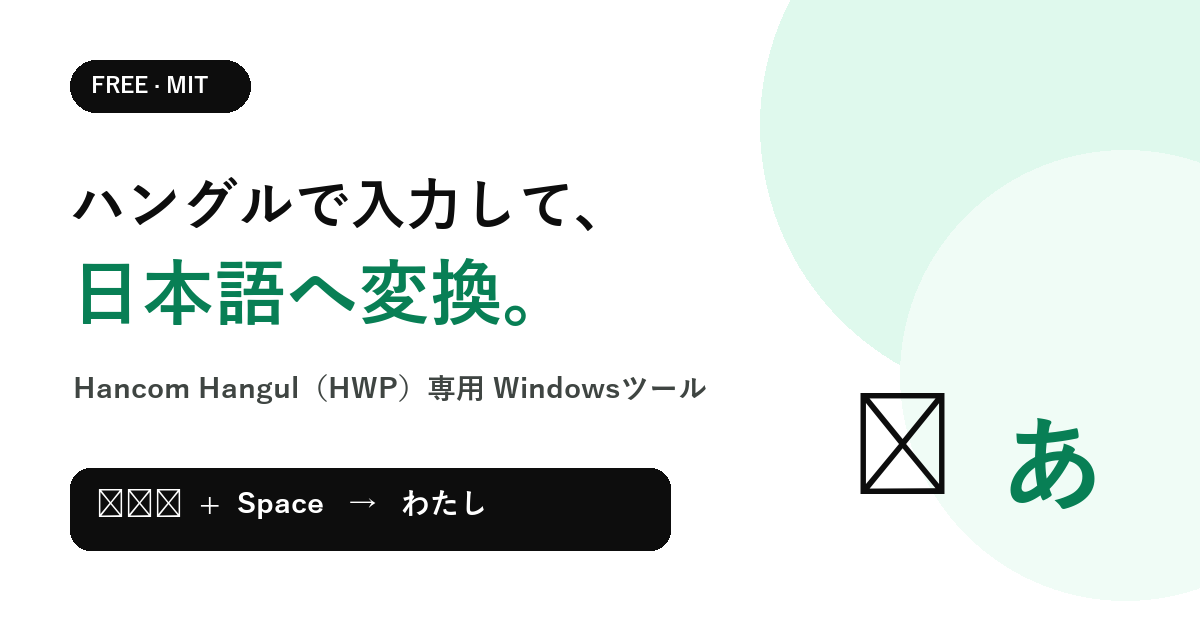
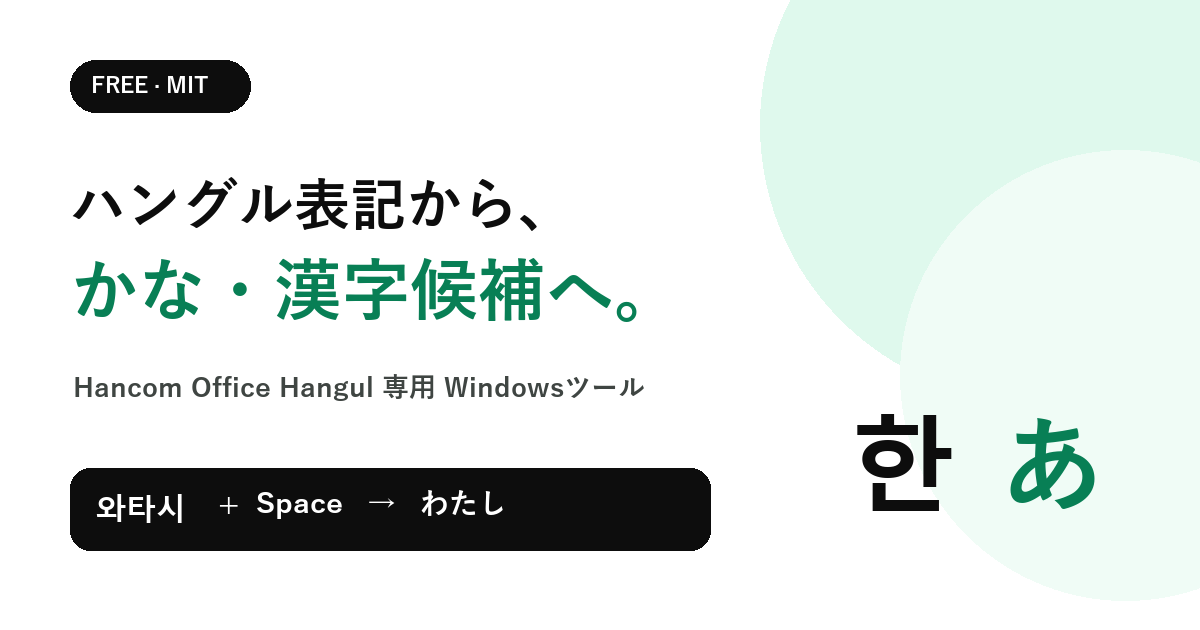
改善: 公開ページの正確性と安全案内を強化

diff --git a/docs/index.html b/docs/index.html
@@ -4,7 +4,7 @@
   <meta charset="utf-8">
   <meta name="viewport" content="width=device-width,initial-scale=1">
   <title>ハングル発音 → 日本語入力ツール｜HWPでひらがな・カタカナ・漢字変換</title>
-  <meta name="description" content="韓国語キーボードで日本語の発音をハングル入力し、Hancom Hangul（HWP）上でひらがな・カタカナ・漢字へ変換する無料Windowsソフト。オフライン動作・MITライセンス。">
+  <meta name="description" content="韓国語キーボードでハングル表記の日本語読みを入力し、Hancom Office Hangul上でかな・登録済み漢字候補へ変換する無料Windowsソフト。オフライン動作・MITライセンス。">
   <meta name="keywords" content="ハングルで日本語入力,韓国語キーボード,日本語変換,HWP,日本語入力,ハングル発音,ひらがな変換,カタカナ変換,無料ソフト">
   <meta name="author" content="kimisjun">
   <meta name="robots" content="index,follow,max-image-preview:large">
@@ -14,10 +14,14 @@
   <meta property="og:type" content="website">
   <meta property="og:locale" content="ja_JP">
   <meta property="og:title" content="ハングル発音 → 日本語入力ツール">
-  <meta property="og:description" content="ハングルで入力した日本語の発音を、HWP上でかな・漢字に変換。無料・オープンソース。">
+  <meta property="og:description" content="ハングル表記の日本語読みを、Hancom Office Hangul上でかな・登録済み漢字候補へ変換。無料・オープンソース。">
   <meta property="og:url" content="https://kimisjun.github.io/hangul-japanese-input/">
   <meta property="og:image" content="https://kimisjun.github.io/hangul-japanese-input/assets/og-image.png">
+  <meta property="og:image:alt" content="ハングル表記の日本語読みをかなへ変換するWindowsツール">
   <meta name="twitter:card" content="summary_large_image">
+  <meta name="twitter:title" content="ハングル表記 → 日本語かな・漢字候補入力ツール">
+  <meta name="twitter:description" content="Hancom Office Hangul専用の無料Windows入力補助ツール">
+  <meta name="twitter:image:alt" content="ハングル表記の日本語読みをかなへ変換するWindowsツール">
   <meta name="theme-color" content="#0fa76e">
   <script type="application/ld+json">
   {
@@ -29,9 +33,11 @@
     "operatingSystem":"Windows 64-bit",
     "softwareVersion":"1.0.0",
     "inLanguage":"ja",
-    "description":"日本語の発音をハングルで入力し、Hancom Hangul（HWP）上でひらがな・カタカナ・漢字へ変換する無料ツール。",
+    "description":"ハングル表記の日本語読みを入力し、Hancom Office Hangul上でかな・登録済み漢字候補へ変換する無料ツール。",
     "url":"https://kimisjun.github.io/hangul-japanese-input/",
-    "downloadUrl":"https://github.com/kimisjun/hangul-japanese-input/releases/latest",
+    "downloadUrl":"https://github.com/kimisjun/hangul-japanese-input/releases/download/v1.0.0/HangulJapaneseInput-v1.0.0-win-x64.zip",
+    "image":"https://kimisjun.github.io/hangul-japanese-input/assets/og-image.png",
+    "screenshot":"https://kimisjun.github.io/hangul-japanese-input/assets/app-preview.png",
     "license":"https://opensource.org/license/mit",
     "isAccessibleForFree":true,
     "offers":{"@type":"Offer","price":"0","priceCurrency":"JPY"},
@@ -60,10 +66,10 @@
       <div class="container hero-grid">
         <div class="hero-copy">
           <p class="eyebrow"><span></span> FREE · OPEN SOURCE · WINDOWS</p>
-          <h1>ハングルで入力して、<br><em>日本語へ変換。</em></h1>
-          <p class="lead">日本語の発音を韓国語キーボードで入力し、Hancom Hangul（HWP）上でひらがな・カタカナ・漢字にすばやく変換できる無料ツールです。</p>
+          <h1>ハングル表記から、<br><em>かな・漢字候補へ。</em></h1>
+          <p class="lead">日本語の読みをハングル表記で入力し、Hancom Office Hangul（한글）上でひらがな・カタカナ・登録済み漢字候補へ変換する無料ツールです。翻訳や一般的な日本語IMEではありません。</p>
           <div class="hero-actions">
-            <a class="button" href="https://github.com/kimisjun/hangul-japanese-input/releases/latest/download/HangulJapaneseInput-v1.0.0-win-x64.zip">Windows版をダウンロード</a>
+            <a class="button" href="https://github.com/kimisjun/hangul-japanese-input/releases/download/v1.0.0/HangulJapaneseInput-v1.0.0-win-x64.zip">Windows版をダウンロード</a>
             <a class="button button-ghost" href="manual/HangulJapaneseInput_UserManual_JA.pdf">日本語マニュアル（PDF）</a>
           </div>
           <ul class="trust-list" aria-label="主な特徴"><li>無料</li><li>広告なし</li><li>アカウント不要</li><li>オフライン動作</li></ul>
@@ -71,31 +77,31 @@
         <div class="product-stage">
           <div class="window-dots" aria-hidden="true"><i></i><i></i><i></i></div>
           <img src="assets/app-preview.png" alt="ハングル発音から日本語へ変換するアプリのメイン画面。와타시와をわたしはへプレビュー変換している。" width="536" height="529">
-          <div class="floating-result"><span>와타시</span><b>→</b><strong>わたし</strong></div>
+          <div class="floating-result"><span lang="ko">와타시</span><b>→</b><strong>わたし</strong></div>
         </div>
       </div>
     </section>
 
     <section class="quick-strip" aria-label="ショートカット早見表">
       <div class="container quick-grid">
-        <div><span class="kana">あ</span><p><b>ひらがな</b><small>와타시 + <kbd>Space</kbd></small></p></div>
-        <div><span class="kana">ア</span><p><b>カタカナ</b><small>테레비 + <kbd>F7</kbd></small></p></div>
-        <div><span class="kana">漢</span><p><b>漢字候補</b><small>니혼 + <kbd>Ctrl</kbd> + <kbd>Space</kbd></small></p></div>
+        <div><span class="kana">あ</span><p><b>ひらがな</b><small><span lang="ko">와타시</span> + <kbd>Space</kbd></small></p></div>
+        <div><span class="kana">ア</span><p><b>カタカナ</b><small><span lang="ko">테레비</span> + <kbd>F7</kbd></small></p></div>
+        <div><span class="kana">漢</span><p><b>漢字候補</b><small><span lang="ko">니혼</span> + <kbd>Ctrl</kbd> + <kbd>Space</kbd></small></p></div>
       </div>
     </section>
 
     <section class="section" id="features">
       <div class="container">
         <p class="eyebrow">WHY THIS TOOL</p>
-        <h2>入力の壁を、3つのキーで軽く。</h2>
-        <p class="section-lead">ローマ字入力ではなく、使い慣れたハングルの発音表記から日本語文字を入力したい方のために作られました。</p>
+        <h2>3つのキーで入力のハードルを下げる。</h2>
+        <p class="section-lead">ローマ字入力ではなく、ハングル表記から日本語の文字を入力したい方のために作られました。</p>
         <div class="card-grid">
-          <article class="card"><span class="icon">⌨</span><h3>ハングル発音入力</h3><p>「와타시」「테레비」のように、日本語の読みをハングルでそのまま入力できます。</p></article>
-          <article class="card"><span class="icon">⇄</span><h3>3種類の変換</h3><p>Spaceでひらがな、F7でカタカナ、Ctrl+Spaceで登録済みの漢字候補を表示します。</p></article>
-          <article class="card"><span class="icon">⌁</span><h3>オフラインで動作</h3><p>入力内容を外部サーバーへ送信しません。アカウント登録も広告表示もありません。</p></article>
-          <article class="card"><span class="icon">□</span><h3>HWPに特化</h3><p>Hancom Hangul（HWP）がアクティブなときだけ変換する、文書作成向けの常駐ツールです。</p></article>
-          <article class="card"><span class="icon">◎</span><h3>変換プレビュー</h3><p>HWPへ入力する前に、ひらがな・カタカナ・漢字候補をメイン画面で確認できます。</p></article>
-          <article class="card"><span class="icon">♡</span><h3>自由に利用・改良</h3><p>MITライセンスのオープンソース。個人・学校・教会・業務で無償利用できます。</p></article>
+          <article class="card"><span class="icon" aria-hidden="true">⌨</span><h3>ハングル発音入力</h3><p><span lang="ko">「와타시」「테레비」</span>のように、日本語の読みをハングル表記で入力できます。</p></article>
+          <article class="card"><span class="icon" aria-hidden="true">⇄</span><h3>3種類の変換</h3><p>Spaceでひらがな、F7でカタカナ、Ctrl+Spaceで登録済みの漢字候補を表示します。</p></article>
+          <article class="card"><span class="icon" aria-hidden="true">⌁</span><h3>オフラインで動作</h3><p>入力内容を外部サーバーへ送信しません。アカウント登録も広告表示もありません。</p></article>
+          <article class="card"><span class="icon" aria-hidden="true">□</span><h3>HWPに特化</h3><p>Hancom Office Hangulアプリがアクティブなときだけ変換する、文書作成向けの常駐ツールです。</p></article>
+          <article class="card"><span class="icon" aria-hidden="true">◎</span><h3>変換プレビュー</h3><p>HWPへ入力する前に、ひらがな・カタカナ・漢字候補をメイン画面で確認できます。</p></article>
+          <article class="card"><span class="icon" aria-hidden="true">♡</span><h3>自由に利用・改良</h3><p>MITライセンスのオープンソース。個人・学校・教会・業務で無償利用できます。</p></article>
         </div>
       </div>
     </section>
@@ -111,7 +117,7 @@
             <li><span>4</span><div><h3>ショートカットで変換</h3><p>目的に合わせてSpace、F7、Ctrl+Spaceのいずれかを押します。</p></div></li>
           </ol>
         </div>
-        <aside class="notice"><p class="notice-label">ご利用前に</p><h3>Hancom Hangul（HWP）専用です</h3><p>Microsoft Word、メモ帳、Webブラウザーでは変換しません。HWPが前面にあり、本文へ入力できる状態でご利用ください。</p><a href="manual/HangulJapaneseInput_UserManual_JA.pdf">詳しい日本語マニュアルを読む →</a></aside>
+        <aside class="notice"><p class="notice-label">ご利用前に</p><h3>Hancom Office Hangulアプリ専用です</h3><p>Microsoft Word、メモ帳、Webブラウザー、HWP互換エディターでは動作しません。Hancom Office Hangulの本文編集時だけ有効にし、検索欄やダイアログの操作時は通知領域から自動変換を一時停止してください。</p><a href="manual/HangulJapaneseInput_UserManual_JA.pdf">詳しい日本語マニュアルを読む →</a></aside>
       </div>
     </section>
 
@@ -119,12 +125,12 @@
       <div class="container">
         <p class="eyebrow">CONVERSION EXAMPLES</p><h2>変換例</h2>
         <div class="example-grid">
-          <div class="example-card"><span>와타시와</span><b>Space</b><strong>わたしは</strong></div>
-          <div class="example-card"><span>콘니치와</span><b>Space</b><strong>こんにちは</strong></div>
-          <div class="example-card"><span>아리가토우</span><b>Space</b><strong>ありがとう</strong></div>
-          <div class="example-card"><span>테레비</span><b>F7</b><strong>テレビ</strong></div>
-          <div class="example-card"><span>니혼</span><b>Ctrl + Space</b><strong>日本 · 二本</strong></div>
-          <div class="example-card"><span>교회</span><b>Ctrl + Space</b><strong>教会 · 協会</strong></div>
+          <div class="example-card"><span lang="ko">와타시와</span><b>Space</b><strong>わたしは</strong></div>
+          <div class="example-card"><span lang="ko">콘니치와</span><b>Space</b><strong>こんにちは</strong></div>
+          <div class="example-card"><span lang="ko">아리가토우</span><b>Space</b><strong>ありがとう</strong></div>
+          <div class="example-card"><span lang="ko">테레비</span><b>F7</b><strong>テレビ</strong></div>
+          <div class="example-card"><span lang="ko">니혼</span><b>Ctrl + Space</b><strong>日本 · 二本</strong></div>
+          <div class="example-card"><span lang="ko">교회</span><b>Ctrl + Space</b><strong>教会 · 協会</strong></div>
         </div>
         <p class="fine-print">※ ひらがな・カタカナは対応する発音表記から変換します。漢字候補は内蔵辞書に登録済みの語に限られます。</p>
       </div>
@@ -135,21 +141,21 @@
         <p class="eyebrow">FAQ</p><h2>よくある質問</h2>
         <details><summary>本当に無料ですか？</summary><p>はい。MITライセンスで公開しており、個人・教育・非営利・商用を問わず利用、複製、変更、再配布できます。ライセンス表示は残してください。</p></details>
         <details><summary>インターネット接続は必要ですか？</summary><p>いいえ。変換はパソコン内で行われ、アカウント登録やクラウド送信はありません。</p></details>
-        <details><summary>Wordやブラウザーでも使えますか？</summary><p>現在のバージョンはHancom Hangul（HWP）専用です。HWP以外のアプリではショートカットを横取りしません。</p></details>
+        <details><summary>Wordやブラウザーでも使えますか？</summary><p>現在のバージョンはHancom Office Hangulアプリ専用です。HWPファイルを開ける他の互換ソフトでは動作しません。</p></details>
         <details><summary>変換されない単語があります</summary><p>未登録または非対応の表記では変換されません。まずメイン画面のプレビューで確認してください。日本語IMEのような文脈解析は行いません。</p></details>
-        <details><summary>安全性とプライバシーは？</summary><p>ネットワーク通信やテレメトリーはありません。変換時には直前の語を一時的にWindowsクリップボードへコピーし、通常は処理後に元の内容へ戻します。動作確認用ログは端末内の<code>%LOCALAPPDATA%\HangulJapaneseInput\diagnostic.log</code>に保存されますが、入力した単語そのものは記録しません。</p></details>
+        <details><summary>安全性とプライバシーは？</summary><p>ネットワーク通信やテレメトリーはありません。変換時には直前の語を一時的にWindowsクリップボードへコピーし、通常は処理後に元の内容へ戻します。動作確認用ログは端末内の<code>%LOCALAPPDATA%\HangulJapaneseInput\diagnostic.log</code>に保存されますが、入力した単語そのものは記録しません。クリップボード履歴ソフトを使っている場合、一時コピーが履歴に残ることがあります。</p></details>
       </div>
     </section>
 
     <section class="download-section">
       <div class="container download-box">
-        <div><p class="eyebrow">DOWNLOAD</p><h2>無料で始めましょう。</h2><p>Windows 64-bit · Hancom Hangul（HWP）専用 · MIT License</p></div>
-        <div class="download-actions"><a class="button button-light" href="https://github.com/kimisjun/hangul-japanese-input/releases/latest/download/HangulJapaneseInput-v1.0.0-win-x64.zip">Windows版 ZIP</a><a class="text-link" href="https://github.com/kimisjun/hangul-japanese-input">ソースコードを見る</a></div>
+        <div><p class="eyebrow">DOWNLOAD</p><h2>無料で始めましょう。</h2><p>Windows 64-bit · Hancom Office Hangul専用 · MIT License</p><p class="download-warning">現行版の画面表示は韓国語です。変換は限定的な音節マップ・定型語・内蔵漢字辞書に基づきます。実行ファイルは未署名のためSmartScreen警告が出る場合があります。<a href="https://github.com/kimisjun/hangul-japanese-input/releases/download/v1.0.0/HangulJapaneseInput-v1.0.0-win-x64.zip.sha256">SHA-256確認ファイル</a></p></div>
+        <div class="download-actions"><a class="button button-light" href="https://github.com/kimisjun/hangul-japanese-input/releases/download/v1.0.0/HangulJapaneseInput-v1.0.0-win-x64.zip">Windows版 ZIP</a><a class="text-link" href="https://github.com/kimisjun/hangul-japanese-input">ソースコードを見る</a></div>
       </div>
     </section>
   </main>
 
-  <footer><div class="container footer-grid"><div><b>Hangul Japanese Input</b><p>ハングル発音から日本語文字へ。</p></div><div><a href="manual/HangulJapaneseInput_UserManual_JA.pdf">マニュアル</a><a href="https://github.com/kimisjun/hangul-japanese-input/releases">リリース</a><a href="https://github.com/kimisjun/hangul-japanese-input/issues">お問い合わせ</a><a href="https://github.com/kimisjun/hangul-japanese-input/blob/main/LICENSE">MIT License</a></div></div><div class="container copyright">© 2026 kimisjun. HancomおよびHancom Hangulは各権利者の商標です。本プロジェクトはHancomの公式製品ではありません。</div></footer>
+  <footer><div class="container footer-grid"><div><b>Hangul Japanese Input</b><p>ハングル表記から日本語のかな・漢字候補へ。</p></div><div><a href="manual/HangulJapaneseInput_UserManual_JA.pdf">マニュアル</a><a href="https://github.com/kimisjun/hangul-japanese-input/releases">リリース</a><a href="https://github.com/kimisjun/hangul-japanese-input/issues">お問い合わせ</a><a href="https://github.com/kimisjun/hangul-japanese-input/blob/main/LICENSE">MIT License</a></div></div><div class="container copyright">© 2026 kimisjun. HancomおよびHancom Hangulは各権利者の商標です。本プロジェクトはHancomの公式製品ではありません。</div></footer>
   <script src="assets/site.js"></script>
 </body>
 </html>

diff --git a/docs/assets/style.css b/docs/assets/style.css
@@ -1,1 +1,1 @@
-:root{--ink:#0d0d0d;--body:#3f4542;--muted:#6b716e;--line:rgba(0,0,0,.08);--soft:#f7faf8;--green:#18e299;--green-deep:#087f55;--green-pale:#dff9ed;--radius:20px;--shadow:0 18px 60px rgba(11,62,43,.1)}*{box-sizing:border-box}html{scroll-behavior:smooth}body{margin:0;color:var(--ink);background:#fff;font-family:Inter,"Noto Sans JP","Yu Gothic UI","Meiryo",system-ui,sans-serif;line-height:1.65;-webkit-font-smoothing:antialiased}a{color:inherit;text-decoration:none}img{max-width:100%;height:auto}.container{width:min(1160px,calc(100% - 40px));margin:auto}.skip-link{position:absolute;left:-9999px;top:8px;background:#fff;padding:10px 16px;z-index:100}.skip-link:focus{left:8px}.site-header{position:sticky;top:0;z-index:20;background:rgba(255,255,255,.86);backdrop-filter:blur(14px);border-bottom:1px solid var(--line)}.nav-wrap{min-height:72px;display:flex;align-items:center;justify-content:space-between}.brand{display:flex;align-items:center;gap:10px;font-weight:700;letter-spacing:-.3px}.brand-mark{display:grid;place-items:center;width:42px;height:34px;border-radius:10px;background:var(--ink);color:#fff;font-size:13px}.nav-links{display:flex;align-items:center;gap:27px;font-size:14px;font-weight:600}.nav-links>a:not(.button):hover{color:var(--green-deep)}.menu-button{display:none;border:1px solid var(--line);background:white;border-radius:999px;padding:8px 14px}.button{display:inline-flex;align-items:center;justify-content:center;min-height:48px;padding:11px 23px;border-radius:999px;background:var(--ink);color:#fff;font-size:15px;font-weight:700;box-shadow:0 2px 3px rgba(0,0,0,.08);transition:transform .2s,opacity .2s}.button:hover{transform:translateY(-2px);opacity:.9}.button:focus-visible,.nav-links a:focus-visible,summary:focus-visible{outline:3px solid var(--green);outline-offset:3px}.button-small{min-height:38px;padding:7px 16px;font-size:13px}.button-ghost{background:#fff;color:var(--ink);border:1px solid var(--line)}.hero{overflow:hidden;padding:100px 0 86px;background:radial-gradient(circle at 78% 28%,rgba(24,226,153,.25),transparent 28%),radial-gradient(circle at 62% 3%,rgba(24,226,153,.12),transparent 30%),#fff}.hero-grid{display:grid;grid-template-columns:1.05fr .95fr;gap:72px;align-items:center}.eyebrow{font-family:"Geist Mono",ui-monospace,monospace;font-size:12px;font-weight:700;letter-spacing:.11em;color:var(--green-deep);text-transform:uppercase}.eyebrow span{display:inline-block;width:18px;height:2px;vertical-align:middle;background:var(--green);margin-right:8px}.hero h1,.section h2,.download-box h2{margin:14px 0 20px;font-size:clamp(42px,5.5vw,70px);line-height:1.08;letter-spacing:-.045em}.hero h1 em{font-style:normal;color:var(--green-deep)}.lead{max-width:650px;margin:0 0 28px;color:var(--body);font-size:18px}.hero-actions{display:flex;gap:12px;flex-wrap:wrap}.trust-list{display:flex;gap:20px;flex-wrap:wrap;padding:0;margin:25px 0 0;list-style:none;color:var(--muted);font-size:13px}.trust-list li:before{content:"✓";color:var(--green-deep);font-weight:800;margin-right:6px}.product-stage{position:relative;padding:28px 25px 18px;border:1px solid var(--line);border-radius:28px;background:rgba(255,255,255,.88);box-shadow:var(--shadow);transform:rotate(1deg)}.product-stage img{display:block;border-radius:12px;border:1px solid rgba(0,0,0,.12);margin:auto}.window-dots{position:absolute;top:11px;left:23px;display:flex;gap:6px}.window-dots i{width:7px;height:7px;border-radius:50%;background:#cbd3cf}.floating-result{position:absolute;right:-35px;bottom:45px;display:flex;align-items:center;gap:11px;padding:13px 17px;border-radius:14px;background:var(--ink);color:white;box-shadow:0 12px 30px rgba(0,0,0,.24);font-size:14px}.floating-result span{color:#aab2ae}.floating-result b{color:var(--green)}.floating-result strong{font-size:18px}.quick-strip{border-block:1px solid var(--line)}.quick-grid{display:grid;grid-template-columns:repeat(3,1fr)}.quick-grid>div{display:flex;align-items:center;justify-content:center;gap:14px;padding:24px;border-right:1px solid var(--line)}.quick-grid>div:last-child{border:0}.kana{display:grid;place-items:center;width:46px;height:46px;border-radius:14px;background:var(--green-pale);color:var(--green-deep);font-size:22px;font-weight:700}.quick-grid p{margin:0}.quick-grid b,.quick-grid small{display:block}.quick-grid small{color:var(--muted)}kbd,code{font-family:"Geist Mono",Consolas,monospace}kbd{padding:2px 6px;border:1px solid #ccd2cf;border-bottom-width:2px;border-radius:5px;background:#fff;font-size:.82em}.section{padding:96px 0}.section h2{font-size:clamp(34px,4vw,48px);max-width:760px}.section-lead{max-width:700px;color:var(--muted);font-size:17px;margin-bottom:38px}.card-grid{display:grid;grid-template-columns:repeat(3,1fr);gap:16px}.card{padding:28px;border:1px solid var(--line);border-radius:var(--radius);background:#fff;box-shadow:0 3px 10px rgba(0,0,0,.025)}.card:hover{border-color:rgba(15,167,110,.35)}.card .icon{display:grid;place-items:center;width:42px;height:42px;border-radius:12px;background:var(--green-pale);color:var(--green-deep);font-size:22px}.card h3{font-size:19px;margin:22px 0 8px}.card p{margin:0;color:var(--muted);font-size:15px}.soft{background:var(--soft);border-block:1px solid var(--line)}.split{display:grid;grid-template-columns:1.25fr .75fr;gap:72px;align-items:start}.steps{padding:0;margin:35px 0 0;list-style:none}.steps li{display:flex;gap:18px;padding:0 0 27px}.steps li>span{flex:0 0 38px;height:38px;display:grid;place-items:center;border-radius:50%;background:var(--ink);color:#fff;font-weight:700}.steps h3{margin:3px 0 4px}.steps p{margin:0;color:var(--muted)}.notice{position:sticky;top:100px;padding:30px;border-radius:24px;background:var(--ink);color:#fff}.notice-label{color:var(--green);font-family:monospace;font-size:12px;letter-spacing:.1em}.notice h3{font-size:25px}.notice p{color:#cbd2ce}.notice a{color:var(--green);font-weight:700}.example-grid{display:grid;grid-template-columns:repeat(3,1fr);gap:14px;margin-top:35px}.example-card{display:grid;grid-template-columns:1fr auto;gap:9px 12px;align-items:center;padding:22px;border:1px solid var(--line);border-radius:16px}.example-card span{font-weight:700}.example-card b{grid-column:2;grid-row:1/3;padding:4px 8px;border-radius:7px;background:var(--green-pale);color:var(--green-deep);font-size:11px}.example-card strong{font-size:20px}.fine-print{color:var(--muted);font-size:13px;margin-top:22px}.narrow{width:min(820px,calc(100% - 40px))}details{border-top:1px solid var(--line);padding:20px 3px}details:last-child{border-bottom:1px solid var(--line)}summary{cursor:pointer;font-weight:700;font-size:17px}details p{color:var(--muted);margin-bottom:3px}.download-section{padding:70px 0}.download-box{display:flex;justify-content:space-between;align-items:center;gap:30px;padding:55px;border-radius:28px;background:var(--ink);color:#fff}.download-box h2{font-size:42px;margin:8px 0}.download-box p{color:#bfc8c3}.download-actions{display:flex;flex-direction:column;align-items:center;gap:13px}.button-light{background:var(--green);color:var(--ink);min-width:210px}.text-link{font-size:13px;text-decoration:underline;color:#dbe3df}footer{padding:55px 0 28px;border-top:1px solid var(--line)}.footer-grid{display:flex;justify-content:space-between}.footer-grid p,.copyright{color:var(--muted);font-size:13px}.footer-grid>div:last-child{display:flex;gap:22px;font-size:13px}.copyright{padding-top:35px;margin-top:30px;border-top:1px solid var(--line)}@media(max-width:850px){.menu-button{display:block}.nav-links{display:none;position:absolute;top:64px;left:20px;right:20px;flex-direction:column;align-items:stretch;padding:18px;border:1px solid var(--line);border-radius:16px;background:#fff;box-shadow:var(--shadow)}.nav-links.open{display:flex}.hero{padding:70px 0}.hero-grid,.split{grid-template-columns:1fr}.hero-grid{gap:42px}.product-stage{max-width:560px}.quick-grid,.card-grid,.example-grid{grid-template-columns:1fr 1fr}.quick-grid>div{border-bottom:1px solid var(--line)}.notice{position:static}.download-box{align-items:flex-start;flex-direction:column}.footer-grid{gap:25px;flex-direction:column}.footer-grid>div:last-child{flex-wrap:wrap}}@media(max-width:560px){.container{width:min(100% - 28px,1160px)}.brand span:last-child{font-size:13px}.hero h1{font-size:42px}.lead{font-size:16px}.hero-actions{flex-direction:column}.button{width:100%}.floating-result{right:8px;bottom:25px}.quick-grid,.card-grid,.example-grid{grid-template-columns:1fr}.quick-grid>div{justify-content:flex-start;border-right:0}.section{padding:68px 0}.split{gap:35px}.download-box{padding:35px 24px}.download-box h2{font-size:34px}.download-actions{width:100%}.footer-grid>div:last-child{flex-direction:column;gap:10px}}@media(prefers-reduced-motion:reduce){html{scroll-behavior:auto}*{transition:none!important}}
+:root{--ink:#0d0d0d;--body:#3f4542;--muted:#6b716e;--line:rgba(0,0,0,.08);--soft:#f7faf8;--green:#18e299;--green-deep:#087f55;--green-pale:#dff9ed;--radius:20px;--shadow:0 18px 60px rgba(11,62,43,.1)}*{box-sizing:border-box}html{scroll-behavior:smooth}body{margin:0;color:var(--ink);background:#fff;font-family:Inter,"Noto Sans JP","Yu Gothic UI","Meiryo",system-ui,sans-serif;line-height:1.65;-webkit-font-smoothing:antialiased}a{color:inherit;text-decoration:none}img{max-width:100%;height:auto}.container{width:min(1160px,calc(100% - 40px));margin:auto}.skip-link{position:absolute;left:-9999px;top:8px;background:#fff;padding:10px 16px;z-index:100}.skip-link:focus{left:8px}.site-header{position:sticky;top:0;z-index:20;background:rgba(255,255,255,.86);backdrop-filter:blur(14px);border-bottom:1px solid var(--line)}.nav-wrap{min-height:72px;display:flex;align-items:center;justify-content:space-between}.brand{display:flex;align-items:center;gap:10px;font-weight:700;letter-spacing:-.3px}.brand-mark{display:grid;place-items:center;width:42px;height:34px;border-radius:10px;background:var(--ink);color:#fff;font-size:13px}.nav-links{display:flex;align-items:center;gap:27px;font-size:14px;font-weight:600}.nav-links>a:not(.button):hover{color:var(--green-deep)}.menu-button{display:none;border:1px solid var(--line);background:white;border-radius:999px;padding:8px 14px}.button{display:inline-flex;align-items:center;justify-content:center;min-height:48px;padding:11px 23px;border-radius:999px;background:var(--ink);color:#fff;font-size:15px;font-weight:700;box-shadow:0 2px 3px rgba(0,0,0,.08);transition:transform .2s,opacity .2s}.button:hover{transform:translateY(-2px);opacity:.9}.button:focus-visible,.nav-links a:focus-visible,summary:focus-visible{outline:3px solid var(--green);outline-offset:3px}.button-small{min-height:38px;padding:7px 16px;font-size:13px}.button-ghost{background:#fff;color:var(--ink);border:1px solid var(--line)}.hero{overflow:hidden;padding:100px 0 86px;background:radial-gradient(circle at 78% 28%,rgba(24,226,153,.25),transparent 28%),radial-gradient(circle at 62% 3%,rgba(24,226,153,.12),transparent 30%),#fff}.hero-grid{display:grid;grid-template-columns:1.05fr .95fr;gap:72px;align-items:center}.eyebrow{font-family:"Geist Mono",ui-monospace,monospace;font-size:12px;font-weight:700;letter-spacing:.11em;color:var(--green-deep);text-transform:uppercase}.eyebrow span{display:inline-block;width:18px;height:2px;vertical-align:middle;background:var(--green);margin-right:8px}.hero h1,.section h2,.download-box h2{margin:14px 0 20px;font-size:clamp(42px,5.5vw,70px);line-height:1.08;letter-spacing:-.045em}.hero h1 em{font-style:normal;color:var(--green-deep)}.lead{max-width:650px;margin:0 0 28px;color:var(--body);font-size:18px}.hero-actions{display:flex;gap:12px;flex-wrap:wrap}.trust-list{display:flex;gap:20px;flex-wrap:wrap;padding:0;margin:25px 0 0;list-style:none;color:var(--muted);font-size:13px}.trust-list li:before{content:"✓";color:var(--green-deep);font-weight:800;margin-right:6px}.product-stage{position:relative;padding:28px 25px 18px;border:1px solid var(--line);border-radius:28px;background:rgba(255,255,255,.88);box-shadow:var(--shadow);transform:rotate(1deg)}.product-stage img{display:block;border-radius:12px;border:1px solid rgba(0,0,0,.12);margin:auto}.window-dots{position:absolute;top:11px;left:23px;display:flex;gap:6px}.window-dots i{width:7px;height:7px;border-radius:50%;background:#cbd3cf}.floating-result{position:absolute;right:-35px;bottom:45px;display:flex;align-items:center;gap:11px;padding:13px 17px;border-radius:14px;background:var(--ink);color:white;box-shadow:0 12px 30px rgba(0,0,0,.24);font-size:14px}.floating-result span{color:#aab2ae}.floating-result b{color:var(--green)}.floating-result strong{font-size:18px}.quick-strip{border-block:1px solid var(--line)}.quick-grid{display:grid;grid-template-columns:repeat(3,1fr)}.quick-grid>div{display:flex;align-items:center;justify-content:center;gap:14px;padding:24px;border-right:1px solid var(--line)}.quick-grid>div:last-child{border:0}.kana{display:grid;place-items:center;width:46px;height:46px;border-radius:14px;background:var(--green-pale);color:var(--green-deep);font-size:22px;font-weight:700}.quick-grid p{margin:0}.quick-grid b,.quick-grid small{display:block}.quick-grid small{color:var(--muted)}kbd,code{font-family:"Geist Mono",Consolas,monospace}kbd{padding:2px 6px;border:1px solid #ccd2cf;border-bottom-width:2px;border-radius:5px;background:#fff;font-size:.82em}.section{padding:96px 0}.section h2{font-size:clamp(34px,4vw,48px);max-width:760px}.section-lead{max-width:700px;color:var(--muted);font-size:17px;margin-bottom:38px}.card-grid{display:grid;grid-template-columns:repeat(3,1fr);gap:16px}.card{padding:28px;border:1px solid var(--line);border-radius:var(--radius);background:#fff;box-shadow:0 3px 10px rgba(0,0,0,.025)}.card:hover{border-color:rgba(15,167,110,.35)}.card .icon{display:grid;place-items:center;width:42px;height:42px;border-radius:12px;background:var(--green-pale);color:var(--green-deep);font-size:22px}.card h3{font-size:19px;margin:22px 0 8px}.card p{margin:0;color:var(--muted);font-size:15px}.soft{background:var(--soft);border-block:1px solid var(--line)}.split{display:grid;grid-template-columns:1.25fr .75fr;gap:72px;align-items:start}.steps{padding:0;margin:35px 0 0;list-style:none}.steps li{display:flex;gap:18px;padding:0 0 27px}.steps li>span{flex:0 0 38px;height:38px;display:grid;place-items:center;border-radius:50%;background:var(--ink);color:#fff;font-weight:700}.steps h3{margin:3px 0 4px}.steps p{margin:0;color:var(--muted)}.notice{position:sticky;top:100px;padding:30px;border-radius:24px;background:var(--ink);color:#fff}.notice-label{color:var(--green);font-family:monospace;font-size:12px;letter-spacing:.1em}.notice h3{font-size:25px}.notice p{color:#cbd2ce}.notice a{color:var(--green);font-weight:700}.example-grid{display:grid;grid-template-columns:repeat(3,1fr);gap:14px;margin-top:35px}.example-card{display:grid;grid-template-columns:1fr auto;gap:9px 12px;align-items:center;padding:22px;border:1px solid var(--line);border-radius:16px}.example-card span{font-weight:700}.example-card b{grid-column:2;grid-row:1/3;padding:4px 8px;border-radius:7px;background:var(--green-pale);color:var(--green-deep);font-size:11px}.example-card strong{font-size:20px}.fine-print{color:var(--muted);font-size:13px;margin-top:22px}.narrow{width:min(820px,calc(100% - 40px))}details{border-top:1px solid var(--line);padding:20px 3px}details:last-child{border-bottom:1px solid var(--line)}summary{cursor:pointer;font-weight:700;font-size:17px}details p{color:var(--muted);margin-bottom:3px}.download-section{padding:70px 0}.download-box{display:flex;justify-content:space-between;align-items:center;gap:30px;padding:55px;border-radius:28px;background:var(--ink);color:#fff}.download-box h2{font-size:42px;margin:8px 0}.download-box p{color:#bfc8c3}.download-actions{display:flex;flex-direction:column;align-items:center;gap:13px}.button-light{background:var(--green);color:var(--ink);min-width:210px}.text-link{font-size:13px;text-decoration:underline;color:#dbe3df}footer{padding:55px 0 28px;border-top:1px solid var(--line)}.footer-grid{display:flex;justify-content:space-between}.footer-grid p,.copyright{color:var(--muted);font-size:13px}.footer-grid>div:last-child{display:flex;gap:22px;font-size:13px}.copyright{padding-top:35px;margin-top:30px;border-top:1px solid var(--line)}@media(max-width:850px){.menu-button{display:block}.nav-links{display:none;position:absolute;top:64px;left:20px;right:20px;flex-direction:column;align-items:stretch;padding:18px;border:1px solid var(--line);border-radius:16px;background:#fff;box-shadow:var(--shadow)}.nav-links.open{display:flex}.hero{padding:70px 0}.hero-grid,.split{grid-template-columns:1fr}.hero-grid{gap:42px}.product-stage{max-width:560px}.quick-grid,.card-grid,.example-grid{grid-template-columns:1fr 1fr}.quick-grid>div{border-bottom:1px solid var(--line)}.notice{position:static}.download-box{align-items:flex-start;flex-direction:column}.footer-grid{gap:25px;flex-direction:column}.footer-grid>div:last-child{flex-wrap:wrap}}@media(max-width:560px){.container{width:min(100% - 28px,1160px)}.brand span:last-child{font-size:13px}.hero h1{font-size:42px}.lead{font-size:16px}.hero-actions{flex-direction:column}.button{width:100%}.floating-result{right:8px;bottom:25px}.quick-grid,.card-grid,.example-grid{grid-template-columns:1fr}.quick-grid>div{justify-content:flex-start;border-right:0}.section{padding:68px 0}.split{gap:35px}.download-box{padding:35px 24px}.download-box h2{font-size:34px}.download-actions{width:100%}.footer-grid>div:last-child{flex-direction:column;gap:10px}}[id]{scroll-margin-top:92px}.download-warning{max-width:720px;font-size:13px;line-height:1.7}.download-warning a{color:var(--green);text-decoration:underline}@media(prefers-reduced-motion:reduce){html{scroll-behavior:auto}*{transition:none!important}}

diff --git a/docs/assets/site.js b/docs/assets/site.js
@@ -1,1 +1,20 @@
-const button=document.querySelector('.menu-button');const nav=document.querySelector('.nav-links');if(button&&nav){button.addEventListener('click',()=>{const open=nav.classList.toggle('open');button.setAttribute('aria-expanded',String(open));});nav.addEventListener('click',e=>{if(e.target.closest('a')){nav.classList.remove('open');button.setAttribute('aria-expanded','false');}});}
+const button=document.querySelector('.menu-button');
+const nav=document.querySelector('.nav-links');
+if(button&&nav){
+  const closeMenu=(restoreFocus=false)=>{
+    nav.classList.remove('open');
+    button.setAttribute('aria-expanded','false');
+    if(restoreFocus) button.focus();
+  };
+  button.addEventListener('click',()=>{
+    const open=nav.classList.toggle('open');
+    button.setAttribute('aria-expanded',String(open));
+    if(open) nav.querySelector('a')?.focus();
+  });
+  nav.addEventListener('click',event=>{
+    if(event.target.closest('a')) closeMenu(false);
+  });
+  document.addEventListener('keydown',event=>{
+    if(event.key==='Escape'&&nav.classList.contains('open')) closeMenu(true);
+  });
+}

diff --git a/README.md b/README.md
@@ -17,10 +17,10 @@
 ## 必要な環境
 
 - Windows 64-bit
-- Hancom Hangul（HWP）
+- Hancom Office Hangul（한글）
 - 韓国語Microsoft IME（2ボル式を推奨）
 
-> 現在のバージョンはHWP専用です。Microsoft Word、メモ帳、Webブラウザーでは変換しません。
+> 現在のバージョンはHancom Office Hangulアプリ専用です。Microsoft Word、メモ帳、Webブラウザー、HWP互換エディターでは変換しません。現行版の画面表示は韓国語です。
 
 ## 基本操作
 
@@ -48,6 +48,8 @@
 - 漢字候補は内蔵辞書に登録済みの語に限られます。
 - 発音表記によっては期待した変換にならないことがあります。
 - 実行ファイルは現在コード署名されていないため、Windows SmartScreenが警告する場合があります。配布元とハッシュを確認してください。
[1 lines of base64/hex data omitted]
+- [チェックサムファイル](https://github.com/kimisjun/hangul-japanese-input/releases/download/v1.0.0/HangulJapaneseInput-v1.0.0-win-x64.zip.sha256)
 
 ## 開発とテスト
 
